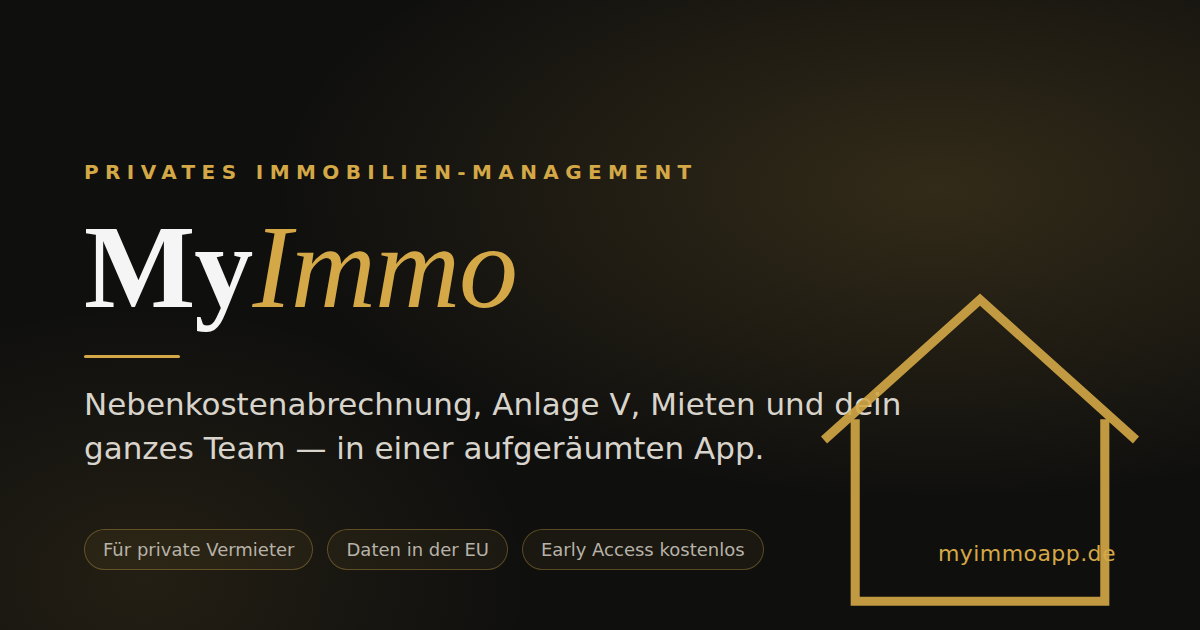
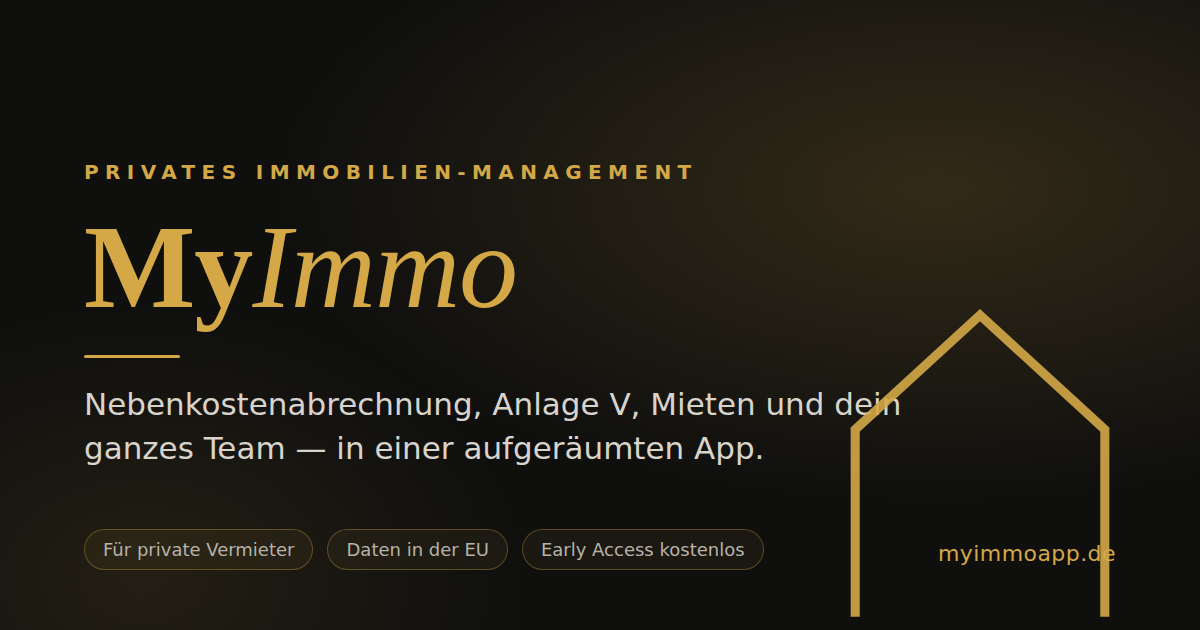
Landing-Designaudit: Markentreue, Kontrast, Konsistenz (H1,H3-H5,M2-M14,N1-N9)
Umsetzung des Design-/UX-Audits ueber alle Landing-Seiten:

Markentreue:
- og.png: Haus jetzt unten offen, Dach buendig (war geschlossen mit
  Dachueberstand); Wortmarke komplett in Marken-Gold wie Icon/Header.
- app/icon.svg (Favicon): offenes Haus-Monogramm statt Georgia-"M".
- Footer-Wortmarke: komplett Gold (Goldverteilung war invertiert).

Kontrast (AA):
- .qlx/.lp3 .btn-gold: dunkler Text auf Gold statt #fff (~2,9:1).
- .qlx .btn-gold:disabled sichtbar gemacht (wurde vorher ueberschrieben).
- Vision-Badges: "Heute schon"/"In Arbeit" in --l-gold-ink statt #D4A847
  auf Weiss (~2,2:1); "Geplant" neutral statt rotem .lp-vorher-Default.
- .lp-final: Kicker + em auf --l-gold-hell (Ink-Gold soff auf Nachtblau ab).
- Ratgeber-Metatexte/-Fussnote: --l-muted statt --l-faint (~2,9:1).

Konsistenz/UX:
- Kicker auf Detailseiten linksbuendig (schwebte mittig ueber linker H1).
- H1-Clamp der Detailseiten vereinheitlicht.
- /funktionen: Zickzack-Rhythmus der Split-Sektionen repariert.
- /vorlagen: ohneSchlussCta (zwei Gold-CTAs standen uebereinander);
  Sie->Du durchgaengig (auch VerteilerForm, Ratgeber-Kurzcheck).
- lp-cards3: 2 Spalten im 641-900px-Fenster (war 3 à ~200px).
- .lp-reveal-fill definiert (3x referenziert, nie vorhanden).
- OG-Bild auf allen Unterseiten ergaenzt (openGraph.images).
- Overlay-Fusszeile: AVV-Link ergaenzt (wie Footer).
- Business-CTA: mailto statt /impressum.
- SOON_BADGE auf AA-Token; tote Bilder banking/cashflow.webp entfernt.
[…]

Changed region(s): [[0.6783, 0.4524, 0.9558, 0.6937], [0.0617, 0.3619, 0.2158, 0.5429], [0.7092, 0.9349, 0.925, 0.9952]]

diff --git a/app/globals.css b/app/globals.css
@@ -1270,6 +1270,7 @@ select:focus-visible, textarea:focus-visible {
 @media (max-width: 900px) {
   .lp-features { grid-template-columns: repeat(2, 1fr); }
   .lp-pricing { grid-template-columns: repeat(2, 1fr); }
+  .lp-cards3 { grid-template-columns: repeat(2, 1fr); } /* 641–900px: sonst 3 Spalten à ~200px */
   .lp-split { grid-template-columns: 1fr; gap: 20px; }
   .lp-split-rev > :first-child { order: 1; }
   .lp-split-rev > :last-child { order: 2; }
@@ -1560,7 +1561,7 @@ select:focus-visible, textarea:focus-visible {
 .lp3 .lp-nav-links .lp-nav-aktiv { color: var(--l-gold-dark); }
 .lp3 .btn-ghost { background: #fff; border: 1px solid var(--l-line); color: var(--l-ink); }
 .lp3 .btn-ghost:hover { border-color: var(--l-gold); }
-.lp3 .btn-gold { background: var(--l-gold); color: #fff; }
+.lp3 .btn-gold { background: var(--l-gold); color: #14120c; }
 .lp3 .btn-gold:hover { background: var(--l-gold-dark); }
 .lp3 .lp-badge { color: var(--l-gold-dark); background: color-mix(in srgb, var(--l-gold) 10%, #fff); border-color: color-mix(in srgb, var(--l-gold) 35%, #fff); }
 .lp3 .lp-h1, .lp3 .lp-h2 { color: var(--l-ink); }
@@ -2046,8 +2047,10 @@ select:focus-visible, textarea:focus-visible {
 .qlx .lp-hero-note, .qlx .lp-price-jahr, .qlx .lp-einheiten { color: var(--l-faint); }
 .qlx .btn-ghost { background: #fff; border: 1px solid var(--l-line); color: var(--l-ink); }
 .qlx .btn-ghost:hover { border-color: var(--l-gold); }
-.qlx .btn-gold { background: var(--l-gold); color: #fff; }
-.qlx .btn-gold:hover { background: var(--l-gold-dark); }
+/* Dunkler Text auf Gold (wie .qlx-btn-hell und die App) — #fff auf #b8902b lag bei ~2,9:1. */
+.qlx .btn-gold { background: var(--l-gold); color: #14120c; }
+.qlx .btn-gold:hover { background: var(--l-gold-dark); color: #fff; }
+.qlx .btn-gold:disabled { background: var(--l-line); color: var(--l-muted); }
 .qlx .lp-badge { color: var(--l-gold-ink); background: color-mix(in srgb, var(--l-gold) 10%, #fff); border-color: color-mix(in srgb, var(--l-gold) 35%, #fff); }
 .qlx .lp-card, .qlx .lp-feature, .qlx .lp-stat, .qlx .lp-plan {
   background: #fff; border: 1px solid transparent; border-radius: 14px;
@@ -2097,8 +2100,16 @@ select:focus-visible, textarea:focus-visible {
 .qlx .lp-footer { background: var(--l-night); border-top: 1px solid var(--l-night-line); margin-top: 0; padding: 34px 0; }
 .qlx .lp-footer-row, .qlx .lp-footer a, .qlx .lp-footer span { color: var(--l-night-muted); }
 .qlx .lp-footer a:hover { color: var(--l-night-text); }
+/* Footer-Wortmarke wie Header/App-Icon: komplett Gold (vorher war die
+   Goldverteilung invertiert — „My" gold, „Immo" elfenbein). */
 .qlx .lp-footer .lp-logo { color: var(--l-gold-hell); }
-.qlx .lp-footer .lp-logo span { color: var(--l-night-text); }
+.qlx .lp-footer .lp-logo span { color: inherit; }
+/* Auf der Nachtbühne braucht Gold die helle Stufe — der Ink-Ton säuft ab. */
+.qlx .lp-final .lp-kicker { color: var(--l-gold-hell); }
+.qlx .lp-final .lp-h2 em { color: var(--l-gold-hell); }
+/* Reveal-Wrapper, der height:100%-Karten in Grid-Zeilen strecken lässt
+   (war 3× referenziert, nie definiert). */
+.lp-reveal-fill { height: 100%; }
 
 /* ---------- Signature-Animationen ---------- */
 /* Reveal (wie Baukasten): weiter Weg, weiche Kurve */

diff --git a/app/vorlagen/page.tsx b/app/vorlagen/page.tsx
@@ -14,6 +14,7 @@ export const metadata: Metadata = {
   description:
     "Mieterhöhung, Kündigung, Mahnung, Wohnungsgeberbestätigung, Übergabeprotokoll und mehr — rechtssichere Vorlagen, in MyImmo mit einem Klick personalisiert als PDF.",
   alternates: { canonical: "/vorlagen" },
+  openGraph: { images: ["/og.png"] },
 };
 
 const VORLAGEN = [
@@ -33,22 +34,24 @@ const VORLAGEN = [
 // ?nl=... hierher zurück, statt eine eigene Seite zu bekommen — der Besucher
 // landet dort, wo er hergekommen ist.
 const NL_MELDUNG: Record<string, { text: string; gut: boolean }> = {
-  ok: { text: "Danke — Ihre Anmeldung ist bestätigt. Sie bekommen Bescheid, sobald es neue Vorlagen gibt.", gut: true },
-  abgemeldet: { text: "Sie sind abgemeldet. Wir schicken Ihnen keine weiteren E-Mails.", gut: true },
-  abgelaufen: { text: "Dieser Bestätigungslink ist abgelaufen. Bitte tragen Sie sich unten erneut ein.", gut: false },
-  fehler: { text: "Der Link ist ungültig. Bitte tragen Sie sich unten erneut ein.", gut: false },
+  ok: { text: "Danke — deine Anmeldung ist bestätigt. Du bekommst Bescheid, sobald es neue Vorlagen gibt.", gut: true },
+  abgemeldet: { text: "Du bist abgemeldet. Wir schicken dir keine weiteren E-Mails.", gut: true },
+  abgelaufen: { text: "Dieser Bestätigungslink ist abgelaufen. Bitte trag dich unten erneut ein.", gut: false },
+  fehler: { text: "Der Link ist ungültig. Bitte trag dich unten erneut ein.", gut: false },
 };
 
 export default function VorlagenPage({ searchParams }: { searchParams: { nl?: string } }) {
   const meldung = searchParams.nl ? NL_MELDUNG[searchParams.nl] : undefined;
   return (
-    <LandingShell aktiv="/vorlagen" mitHero>
+    // ohneSchlussCta: Die Seite hat ihren eigenen Gold-CTA — sonst stünden
+    // zwei „Kostenlos …"-Bänder direkt übereinander.
+    <LandingShell aktiv="/vorlagen" mitHero ohneSchlussCta>
       <QlxHero
         slug="vorlagen"
         kompakt
         kicker="Vorlagen"
         titel={<>Rechtssichere Vorlagen — <em>in Sekunden fertig</em></>}
-        sub="Statt Word-Dokumente mühsam auszufüllen: Vorlage wählen, der Rest wird aus Ihren Objekt- und Mieterdaten automatisch ergänzt — als sauberes PDF im Geschäftsbriefstil. Kostenlos im Early Access."
+        sub="Statt Word-Dokumente mühsam auszufüllen: Vorlage wählen, der Rest wird aus deinen Objekt- und Mieterdaten automatisch ergänzt — als sauberes PDF im Geschäftsbriefstil. Kostenlos im Early Access."
       />
       <section className="lp-section">
         <div className="lp-inner">
@@ -90,7 +93,7 @@ export default function VorlagenPage({ searchParams }: { searchParams: { nl?: st
             <Link href="/anmelden" className="btn btn-gold lp-btn-big">Vorlagen kostenlos nutzen <ArrowRight size={15} style={{ verticalAlign: "-2px" }} /></Link>
           </div>
           <p className="lp-section-sub" style={{ marginTop: 24, marginBottom: 0, fontSize: 12.5 }}>
-            Alle Vorlagen werden mit Ihren Daten personalisiert und lassen sich vor dem Export bearbeiten.
+            Alle Vorlagen werden mit deinen Daten personalisiert und lassen sich vor dem Export bearbeiten.
             Anhaltspunkte ohne Gewähr, keine Rechtsberatung.
           </p>
         </div>

diff --git a/app/vision/page.tsx b/app/vision/page.tsx
@@ -9,6 +9,7 @@ export const metadata: Metadata = {
   title: "Vision — MyImmo",
   description:
     "Die MyImmo-Vision: im Ausland leben und den Immobilienbestand in Deutschland vollständig aus der App steuern — mit Team-Rollen und Steuerberater-Freigabe.",
+  openGraph: { images: ["/og.png"] },
 };
 
 export default function VisionPage() {
@@ -32,17 +33,17 @@ export default function VisionPage() {
           <Reveal>
             <div className="lp-cards3">
               <div className="lp-card">
-                <span className="lp-vorher" style={{ color: "var(--gold)" }}>Heute schon</span>
+                <span className="lp-vorher" style={{ color: "var(--l-gold-ink)" }}>Heute schon</span>
                 <h3>Das Team arbeitet vor Ort</h3>
                 <p>Mieter melden Anliegen digital, der Hausmeister legt Aufträge an, Firmen bekommen Termin-Links — du gibst nur noch frei. Alles läuft über Rollen, nichts über deinen Anrufbeantworter.</p>
               </div>
               <div className="lp-card">
-                <span className="lp-vorher" style={{ color: "var(--gold)" }}>Heute schon</span>
+                <span className="lp-vorher" style={{ color: "var(--l-gold-ink)" }}>Heute schon</span>
                 <h3>Papierkram wird zu PDFs</h3>
                 <p>Nebenkostenabrechnung, Mahnung, Anlage V, Jahresbericht: fertige Dokumente im eigenen Briefkopf — erzeugt in Sekunden, abgelegt im Archiv, verschickt von überall.</p>
               </div>
               <div className="lp-card">
-                <span className="lp-vorher" style={{ color: "var(--gold)" }}>Heute schon</span>
+                <span className="lp-vorher" style={{ color: "var(--l-gold-ink)" }}>Heute schon</span>
                 <h3>Zahlen ohne Zettel</h3>
                 <p>Cashflow, Rendite, Restschuld und Fristen leben in der App statt in Excel — mit automatischen Warnungen, bevor etwas anbrennt.</p>
               </div>
@@ -56,7 +57,9 @@ export default function VisionPage() {
               <Reveal key={v.t} delay={i * 70}>
                 <Tilt>
                   <div className="lp-card" style={{ height: "100%" }}>
-                    <span className="lp-vorher" style={v.status === "bald" ? { color: "var(--gold)" } : undefined}>
+                    {/* „Geplant" ist nichts Negatives — neutral statt des roten
+                        .lp-vorher-Defaults; „In Arbeit" im AA-sicheren Gold. */}
+                    <span className="lp-vorher" style={{ color: v.status === "bald" ? "var(--l-gold-ink)" : "var(--l-muted)" }}>
                       {v.status === "bald" ? "In Arbeit" : "Geplant"}
                     </span>
                     <h3>{v.t}</h3>

diff --git a/app/ratgeber/[slug]/page.tsx b/app/ratgeber/[slug]/page.tsx
@@ -16,7 +16,7 @@ export function generateMetadata({ params }: { params: { slug: string } }): Meta
     title: `${a.titel} — MyImmo`,
     description: a.beschreibung,
     alternates: { canonical: `/ratgeber/${a.slug}` },
-    openGraph: { title: a.titel, description: a.beschreibung, type: "article" },
+    openGraph: { title: a.titel, description: a.beschreibung, type: "article", images: ["/og.png"] },
   };
 }
 
@@ -45,9 +45,9 @@ export default function RatgeberArtikelSeite({ params }: { params: { slug: strin
           <Link href="/ratgeber" style={{ fontSize: 13, color: "var(--l-muted)", textDecoration: "none" }}>
             <ArrowLeft size={13} style={{ verticalAlign: "-2px" }} /> Alle Ratgeber
           </Link>
-          <div className="lp-kicker" style={{ marginTop: 18 }}>{a.kategorie}</div>
-          <h1 className="lp-h2" style={{ fontSize: "clamp(26px, 3.6vw, 36px)", textAlign: "left" }}>{a.titel}</h1>
-          <div style={{ fontSize: 12.5, color: "var(--l-faint)", marginBottom: 24 }}>
+          <div className="lp-kicker" style={{ marginTop: 18, textAlign: "left" }}>{a.kategorie}</div>
+          <h1 className="lp-h2" style={{ fontSize: "clamp(27px, 3.8vw, 38px)", textAlign: "left" }}>{a.titel}</h1>
+          <div style={{ fontSize: 12.5, color: "var(--l-muted)", marginBottom: 24 }}>
             <Clock size={12} style={{ verticalAlign: "-2px" }} /> {a.lesezeit} Min Lesezeit · {ratgeberDatum(a.datum)}
           </div>
 
@@ -68,7 +68,7 @@ export default function RatgeberArtikelSeite({ params }: { params: { slug: strin
               }}
             >
               <div className="lp-vorher" style={{ color: "var(--l-gold-ink)", marginBottom: 8 }}>
-                Kurzcheck — ist das Ihr Fall?
+                Kurzcheck — ist das dein Fall?
               </div>
               <p style={{ fontSize: 15, lineHeight: 1.7, color: "var(--l-ink)", margin: "0 0 12px" }}>
                 {a.kurzcheck.fall}
@@ -112,7 +112,7 @@ export default function RatgeberArtikelSeite({ params }: { params: { slug: strin
             </div>
           )}
 
-          <p style={{ fontSize: 12, color: "var(--l-faint)", borderTop: "1px solid var(--l-line)", paddingTop: 16, marginTop: 8 }}>
+          <p style={{ fontSize: 12, color: "var(--l-muted)", borderTop: "1px solid var(--l-line)", paddingTop: 16, marginTop: 8 }}>
             Rechtsstand Juli 2026. Alle Angaben sind Anhaltspunkte ohne Gewähr und ersetzen keine Steuer- oder Rechtsberatung.
           </p>
 

diff --git a/app/funktionen/[slug]/page.tsx b/app/funktionen/[slug]/page.tsx
@@ -17,7 +17,7 @@ export function generateMetadata({ params }: { params: { slug: string } }): Meta
     title: `${f.metaTitel} — MyImmo`,
     description: f.beschreibung,
     alternates: { canonical: `/funktionen/${f.slug}` },
-    openGraph: { title: f.titel, description: f.beschreibung, type: "website" },
+    openGraph: { title: f.titel, description: f.beschreibung, type: "website", images: ["/og.png"] },
   };
 }
 
@@ -36,7 +36,7 @@ export default function FunktionsSeite({ params }: { params: { slug: string } })
           <Link href="/funktionen" style={{ fontSize: 13, color: "var(--l-muted)", textDecoration: "none" }}>
             <ArrowLeft size={13} style={{ verticalAlign: "-2px" }} /> Alle Funktionen
           </Link>
-          <div className="lp-kicker" style={{ marginTop: 18 }}>{f.kicker}</div>
+          <div className="lp-kicker" style={{ marginTop: 18, textAlign: "left" }}>{f.kicker}</div>
           <h1 className="lp-h2" style={{ fontSize: "clamp(27px, 3.8vw, 38px)", textAlign: "left" }}>{f.titel}</h1>
           <p style={{ fontSize: 16, lineHeight: 1.7, color: "var(--l-ink)", margin: "0 0 30px", fontWeight: 500 }}>{f.sub}</p>
 

diff --git a/components/landing/data.tsx b/components/landing/data.tsx
@@ -74,7 +74,8 @@ export const PLAENE: Plan[] = [
       "Team-Zugänge (geplant)",
       "Sammel-Funktionen (geplant)",
     ],
-    cta: "Kontakt aufnehmen", highlight: false, ctaHref: "/impressum",
+    // Impressum ist keine Kontaktstrecke — direkt die Postfach-Adresse.
+    cta: "Kontakt aufnehmen", highlight: false, ctaHref: "mailto:info@myimmoapp.de",
   },
 ];
 
@@ -130,7 +131,7 @@ export function Shot({ src, alt }: { src: string; alt: string }) {
 }
 
 export const SOON_BADGE = (
-  <span style={{ fontSize: 10, fontWeight: 600, letterSpacing: 0.4, color: "var(--gold)", border: "1px solid var(--gold-dim)", background: "var(--gold-pale)", borderRadius: 999, padding: "2px 8px", marginLeft: 8, verticalAlign: "2px", whiteSpace: "nowrap" }}>
+  <span style={{ fontSize: 10, fontWeight: 600, letterSpacing: 0.4, color: "var(--l-gold-ink)", border: "1px solid var(--gold-dim)", background: "var(--gold-pale)", borderRadius: 999, padding: "2px 8px", marginLeft: 8, verticalAlign: "2px", whiteSpace: "nowrap" }}>
     BALD
   </span>
 );

diff --git a/components/landing/VerteilerForm.tsx b/components/landing/VerteilerForm.tsx
@@ -38,7 +38,7 @@ export default function VerteilerForm({ quelle = "vorlagen" }: { quelle?: string
       setMeldung(
         json.schon
           ? "Diese Adresse ist bereits im Verteiler — es wurde keine neue E-Mail verschickt."
-          : "Fast geschafft: Bitte bestätigen Sie den Link in der E-Mail, die wir gerade verschickt haben.",
+          : "Fast geschafft: Bitte bestätige den Link in der E-Mail, die wir gerade verschickt haben.",
       );
     } catch {
       setStatus("fehler");
@@ -94,7 +94,7 @@ export default function VerteilerForm({ quelle = "vorlagen" }: { quelle?: string
           required
           value={email}
           onChange={(e) => setEmail(e.target.value)}
-          placeholder="ihre@adresse.de"
+          placeholder="deine@adresse.de"
           autoComplete="email"
           style={{
             flex: "1 1 220px",

diff --git a/app/funktionen/page.tsx b/app/funktionen/page.tsx
@@ -12,6 +12,7 @@ export const metadata: Metadata = {
   title: "Funktionen — MyImmo",
   description:
     "Alle MyImmo-Funktionen: Nebenkostenabrechnung, Anlage V & ELSTER, Mieterportal, Service-Aufträge, Kredite, Dokumente und mehr.",
+  openGraph: { images: ["/og.png"] },
 };
 
 export default function FunktionenPage() {
@@ -88,7 +89,8 @@ export default function FunktionenPage() {
 
 
           <Reveal>
-            <div className="lp-split lp-split-rev">
+            {/* Zickzack-Rhythmus: „Steuer" davor ist bereits rev — Fristen wieder normal */}
+            <div className="lp-split">
               <div>
                 <h3>Fristen, die sich selbst eintragen</h3>
                 <p>Aus Mietern, Krediten und Steuerterminen entstehen automatisch Fristen — eigene Wartungstermine legst du mit einem Klick an.</p>

diff --git a/components/LandingPage.tsx b/components/LandingPage.tsx
@@ -225,7 +225,7 @@ export default function LandingPage() {
         <div className="lp-inner">
           <Reveal>
             <div className="lp-final">
-              <div className="lp-kicker" style={{ justifyContent: "center" }}>Bereit?</div>
+              <div className="lp-kicker">Bereit?</div>
               <h2 className="lp-h2">Dein Portfolio, endlich an einem Ort.</h2>
               <p className="lp-section-sub">
                 In wenigen Minuten eingerichtet — Objekt anlegen, Mieter erfassen, loslegen.

diff --git a/components/landing/QlxHeader.tsx b/components/landing/QlxHeader.tsx
@@ -118,6 +118,7 @@ export default function QlxHeader({
             <div className="qlx-overlay-foot">
               <Link href="/agb" onClick={zu} tabIndex={offen ? 0 : -1}>AGB</Link>
               <Link href="/datenschutz" onClick={zu} tabIndex={offen ? 0 : -1}>Datenschutz</Link>
+              <Link href="/avv" onClick={zu} tabIndex={offen ? 0 : -1}>AVV</Link>
               <Link href="/impressum" onClick={zu} tabIndex={offen ? 0 : -1}>Impressum</Link>
             </div>
           </nav>

diff --git a/app/ratgeber/page.tsx b/app/ratgeber/page.tsx
@@ -11,6 +11,7 @@ export const metadata: Metadata = {
   description:
     "Praxiswissen für private Vermieter: Nebenkostenabrechnung, Steuer, Fristen und der Einstieg in die Vermietung — verständlich erklärt.",
   alternates: { canonical: "/ratgeber" },
+  openGraph: { images: ["/og.png"] },
 };
 
 export default function RatgeberIndex() {
